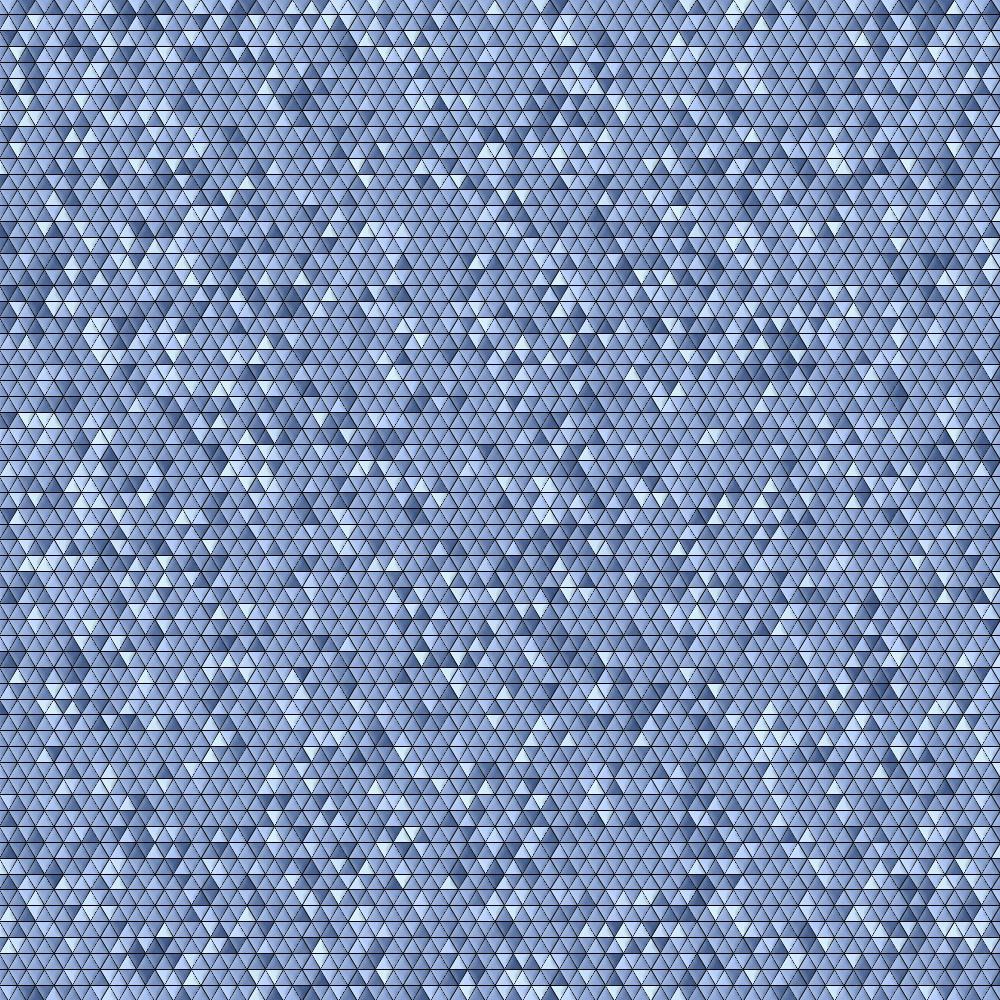
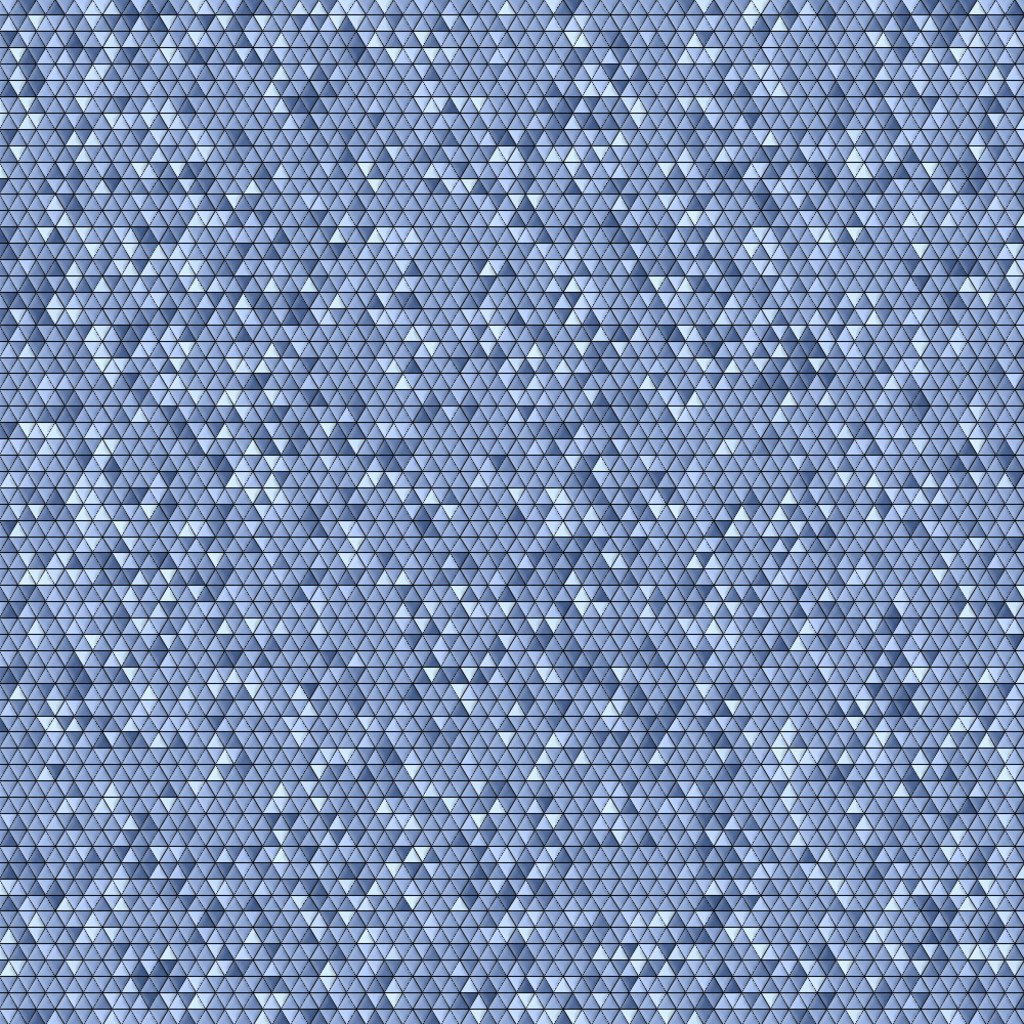
Textures!
* moved unused textures from resources to Textures
* copied used textures from Textures to resources
* resized copies in resources so OSG doesn't have to do it all the time
* changed all paths to use the resources folder

Changed region(s): [[0.0, 0.0, 1.0, 1.0]]

diff --git a/src/objects/AsteroidField.cpp b/src/objects/AsteroidField.cpp
@@ -37,14 +37,14 @@ void ph::AsteroidField::createBaseField() {
 
     // Big main asteroids
     ref_ptr<ph::Asteroid> asteroid_main_fine = new ph::Asteroid(12, 20, 20, 1, 1, 1);
-    asteroid_main_fine->setTexture(0, "../Textures/phobos.jpg");
+    asteroid_main_fine->setTexture(0, "../resources/phobos.jpg");
     base_field->addChild(asteroid_main_fine.get());
     addToBaseField(asteroid_main_fine.get(),
         Matrix::rotate(PI_2,Vec3(0.0,1.0,1.0))*Matrix::translate(55.0, -30.0, -3.0));
     
     // small asteroids
     ref_ptr<ph::Asteroid> asteroid_small_fine = new ph::Asteroid(3, 20, 20, 1, 1, 1);
-    asteroid_small_fine->setTexture(0, "../Textures/phobos.jpg");
+    asteroid_small_fine->setTexture(0, "../resources/phobos.jpg");
     addToBaseField(asteroid_small_fine.get(),
         Matrix::translate(31.0, 12.0, 3.0));
     addToBaseField(asteroid_small_fine.get(),
@@ -55,7 +55,7 @@ void ph::AsteroidField::createBaseField() {
         Matrix::translate(-5.0, -25.0, -4.0));
 
     ref_ptr<ph::Asteroid> asteroid_small_crude = new ph::Asteroid(3, 5, 5, 1, 1, 1);
-    asteroid_small_crude->setTexture(0, "../Textures/ceres.jpg");
+    asteroid_small_crude->setTexture(0, "../resources/ceres.jpg");
     addToBaseField(asteroid_small_crude.get(),
         Matrix::translate(-5.0, 20.0, 7.0));
     addToBaseField(asteroid_small_crude.get(),
@@ -76,17 +76,17 @@ void ph::AsteroidField::createBaseField() {
     
     // flat asteroids
     ref_ptr<ph::Asteroid> asteroid_flat_fine = new ph::Asteroid(5, 20, 20, 2, 3, 1);
-    asteroid_flat_fine->setTexture(0, "../Textures/ceres.jpg");
+    asteroid_flat_fine->setTexture(0, "../resources/ceres.jpg");
     ref_ptr<Node> flat_fine = addToBaseField(asteroid_flat_fine.get(),
         Matrix::rotate(PI_4,Vec3(0.0,0.0,1.0))*Matrix::translate(76.0, 3.0, -2.0));
 
     ref_ptr<ph::Asteroid> asteroid_flat_crude = new ph::Asteroid(5, 5, 5, 1, 1, 4);
-    asteroid_flat_crude->setTexture(0, "../Textures/ceres.jpg");
+    asteroid_flat_crude->setTexture(0, "../resources/ceres.jpg");
     addToBaseField(asteroid_flat_crude.get(),
         Matrix::translate(50.0, 7.0, -2.0));
 
     ref_ptr<ph::Asteroid> asteroid_flat_small = new ph::Asteroid(2, 5, 5, 4, 1, 1);
-    asteroid_flat_small->setTexture(0, "../Textures/phobos.jpg");
+    asteroid_flat_small->setTexture(0, "../resources/phobos.jpg");
     ref_ptr<Node> flat_small = addToBaseField(asteroid_flat_small.get(),
         Matrix::rotate(PI_4,Vec3(1.0,0.0,1.0))*Matrix::translate(-22.0, 7.0, -2.0));
     

diff --git a/src/runners/asteroid.cpp b/src/runners/asteroid.cpp
@@ -116,12 +116,12 @@ int main(void) {
     root->addChild(trans_flat_03.get());
     
     // giving the asteroids a texture
-    asteroid_main_fine->setTexture(0, "../Textures/phobos.jpg");
-    asteroid_flat_crude->setTexture(0, "../Textures/ceres.jpg");
-    asteroid_flat_fine->setTexture(0, "../Textures/ceres.jpg");
-    asteroid_flat_small->setTexture(0, "../Textures/phobos.jpg");
-    asteroid_small_crude->setTexture(0, "../Textures/ceres.jpg");
-    asteroid_small_fine->setTexture(0, "../Textures/phobos.jpg");
+    asteroid_main_fine->setTexture(0, "../resources/phobos.jpg");
+    asteroid_flat_crude->setTexture(0, "../resources/ceres.jpg");
+    asteroid_flat_fine->setTexture(0, "../resources/ceres.jpg");
+    asteroid_flat_small->setTexture(0, "../resources/phobos.jpg");
+    asteroid_small_crude->setTexture(0, "../resources/ceres.jpg");
+    asteroid_small_fine->setTexture(0, "../resources/phobos.jpg");
     
     // enables PolygonMode
     ref_ptr<PolygonMode> pm = new PolygonMode;

diff --git a/src/objects/Missile.cpp b/src/objects/Missile.cpp
@@ -87,10 +87,10 @@ ParticleSystem* createParticleSystem(Group* _parent) {
 
 ph::Missile::Missile() {
     ref_ptr<ph::Rotator> rotator = new ph::Rotator(-1.7, 1.81, 30);
-    rotator->setTexture(0, "../Textures/rotator_tx.png");
+    rotator->setTexture(0, "../resources/rotator_tx.png");
     
     ref_ptr<ph::Fins> fins1a = new ph::Fins(0,0.4);
-    fins1a->setTexture(0, "../Textures/fin.png");
+    fins1a->setTexture(0, "../resources/fin.png");
     
     osg::ref_ptr<osg::MatrixTransform> transf1a = new osg::MatrixTransform;
 
@@ -143,7 +143,7 @@ ph::Missile::Missile() {
     ref_ptr<MatrixTransform> planet = new MatrixTransform;
     
     planet->setMatrix(Matrix::translate(-1.8,0.0,0.0));
-    sphere->setTexture(0,"../Textures/rocketeng.jpeg"); //mit durch Material ergänzen
+    sphere->setTexture(0,"../resources/rocketeng.jpeg"); //mit durch Material ergänzen
     planet->addChild(sphere.get());
     
     //Partikelsystem start

diff --git a/src/runners/rotator.cpp b/src/runners/rotator.cpp
@@ -91,10 +91,10 @@ ParticleSystem* createParticleSystem(Group* _parent) {
 int main(void) {
 
     ref_ptr<ph::Rotator> rotator = new ph::Rotator(-1.7, 1.81, 30);
-    rotator->setTexture(0, "../Textures/rotator_tx.png");
+    rotator->setTexture(0, "../resources/rotator_tx.png");
     
     ref_ptr<ph::Fins> fins1a = new ph::Fins(0,0.4);
-    fins1a->setTexture(0, "../Textures/fin.png");
+    fins1a->setTexture(0, "../resources/fin.png");
     
     osg::ref_ptr<osg::MatrixTransform> transf1a = new osg::MatrixTransform;
 
@@ -153,7 +153,7 @@ int main(void) {
     ref_ptr<MatrixTransform> planet = new MatrixTransform;
     
     planet->setMatrix(Matrix::translate(-1.75,0.0,0.0));
-    sphere->setTexture(0,"../Textures/rocketeng.jpeg"); //mit durch Material ergänzen
+    sphere->setTexture(0,"../resources/rocketeng.jpeg"); //mit durch Material ergänzen
     planet->addChild(sphere.get());
     
     //PS

diff --git a/src/runners/planet.cpp b/src/runners/planet.cpp
@@ -18,14 +18,14 @@ int main(void) {
     ref_ptr<Group> root = new Group();
 
     // giving the sphere a texturefile
-    sphere->setTexture(0, "../Textures/EarthMap.jpg");
+    sphere->setTexture(0, "../resources/EarthMap.jpg");
     
     // Torus(innerRadius, torusRadius, lengthSteps, widthSteps)
     ref_ptr<ph::Torus> torus = new ph::Torus(8, 1.5, 100);
 
     // Default ist NORMAL
     torus->setStyle(ph::Torus::FLAT);
-    torus->setTexture(0, "../Textures/rings.jpg");
+    torus->setTexture(0, "../resources/rings.jpg");
     
     planet->addChild(sphere.get());
     planet->addChild(torus.get());

diff --git a/src/objects/Comet.cpp b/src/objects/Comet.cpp
@@ -18,7 +18,7 @@
 ph::Comet::Comet(const double radius, const int lsteps, const int wsteps, 
                  const int xd, const int yd, const int zd) {
     asteroid = new Asteroid(radius, lsteps, wsteps, xd, yd, zd);
-    asteroid->setTexture(0, "../Textures/phobos.jpg");
+    asteroid->setTexture(0, "../resources/phobos.jpg");
 
     // moving the origin of particles
     particleSystem = new MatrixTransform();

diff --git a/src/scenes/MainScene.cpp b/src/scenes/MainScene.cpp
@@ -93,7 +93,7 @@ void ph::MainScene::createPlanet() {
     ref_ptr<ph::Sphere> sphere = new ph::Sphere(500, 200);
     
     // giving the sphere a texturefile
-    sphere->setTexture(0, "../Textures/planet_Klendathu.jpg");
+    sphere->setTexture(0, "../resources/planet.jpg");
     
     // Torus(innerRadius, torusRadius, lengthSteps, widthSteps)
     ref_ptr<ph::PlanetRing> ring = new ph::PlanetRing(650, 75, 200);

diff --git a/src/runners/rectangle.cpp b/src/runners/rectangle.cpp
@@ -11,7 +11,7 @@ int main(void)
     ref_ptr<Group> root = new Group;
 	// baue Geometry
 	ref_ptr<ph::Rectangle> testrec = new ph::Rectangle(100,50);
-	testrec->setTexture(0,"../Textures/EarthMap.jpg");
+	testrec->setTexture(0,"../resources/EarthMap.jpg");
 	testrec->getOrCreateStateSet()->setMode(GL_LIGHTING, StateAttribute::OFF);
 	root->addChild(testrec.get());
 	

diff --git a/src/runners/skybox.cpp b/src/runners/skybox.cpp
@@ -45,7 +45,7 @@ int main(void)
     root->addChild(spheretrans2.get());
     
     // giving the sphere a texturefile
-    sphere->setTexture(0, "../Textures/EarthMap.jpg");
+    sphere->setTexture(0, "../resources/EarthMap.jpg");
     
     // Sun(radius, Steps, GLLightNumber, red, green, blue)
     ref_ptr<ph::Sun> sun = new ph::Sun(10.0, 200, 0, 0.9, 0.6, 0.0);

diff --git a/src/runners/sun.cpp b/src/runners/sun.cpp
@@ -28,7 +28,7 @@ int main(void) {
     ref_ptr<ph::Sphere> sphere = new ph::Sphere(5, 200);
 
     // giving the sphere a texturefile
-    sphere->setTexture(0, "../Textures/EarthMap.jpg");
+    sphere->setTexture(0, "../resources/EarthMap.jpg");
     
     // pushing sphere to the right
     ref_ptr<MatrixTransform> spheretrans = new MatrixTransform();

diff --git a/src/runners/torus.cpp b/src/runners/torus.cpp
@@ -20,7 +20,7 @@ int main(void) {
     torus->setStyle(ph::Torus::FLAT);
     
     // Textur setzen
-    torus->setTexture(0,"../Textures/EarthMap.jpg");
+    torus->setTexture(0,"../resources/EarthMap.jpg");
     
     // Alternativ: normal Torus
     //ref_ptr<ph::Torus> torus = new ph::FlatTorus(6, 1.5, 75);

diff --git a/src/runners/sphere.cpp b/src/runners/sphere.cpp
@@ -29,7 +29,7 @@ int main(void) {
     ref_ptr<MatrixTransform> root = new MatrixTransform;
 
     // giving the sphere a texturefile
-    sphere->setTexture(0, "../Textures/EarthMap.jpg");
+    sphere->setTexture(0, "../resources/EarthMap.jpg");
     
     root->addChild(sphere.get());
     
